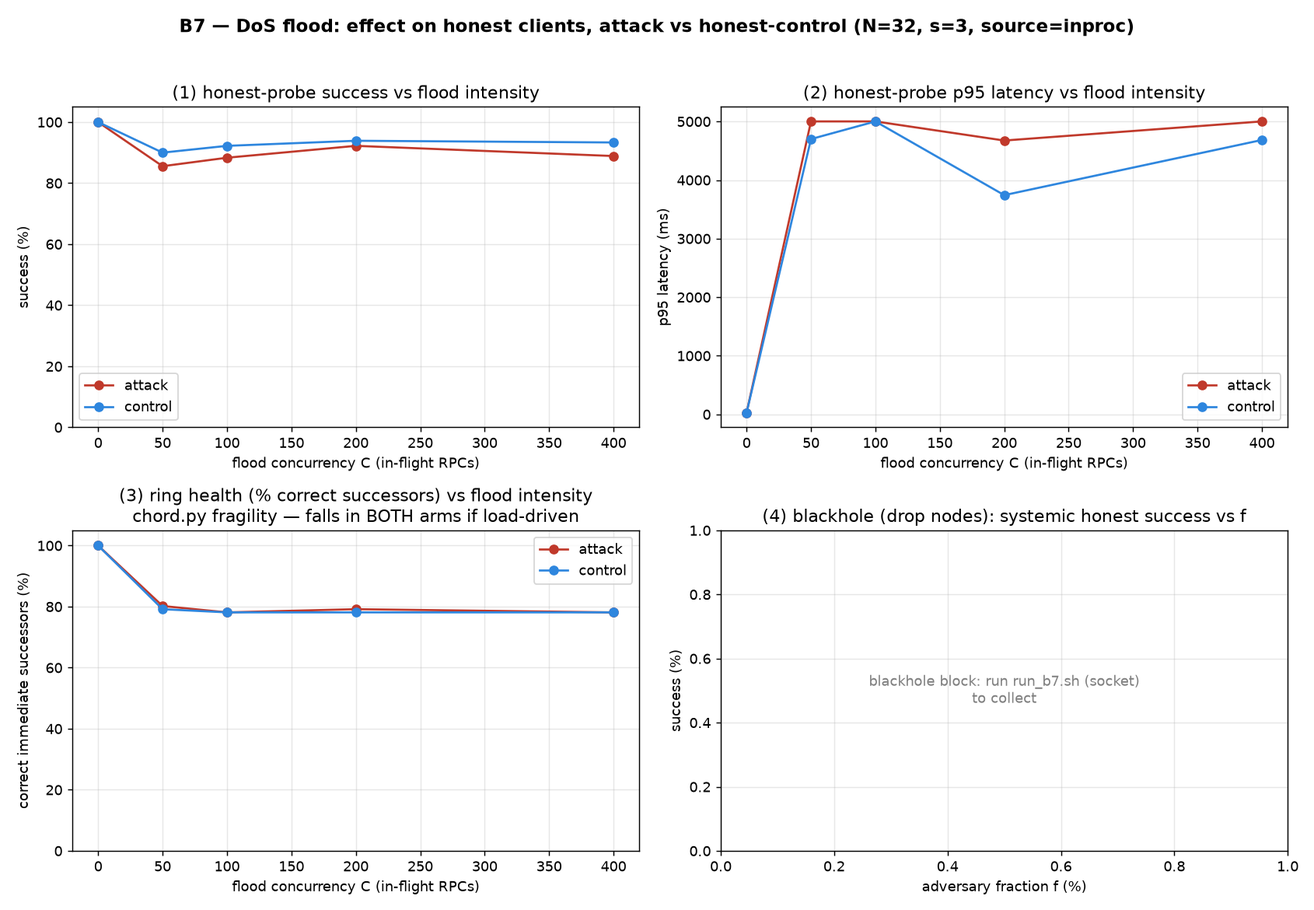
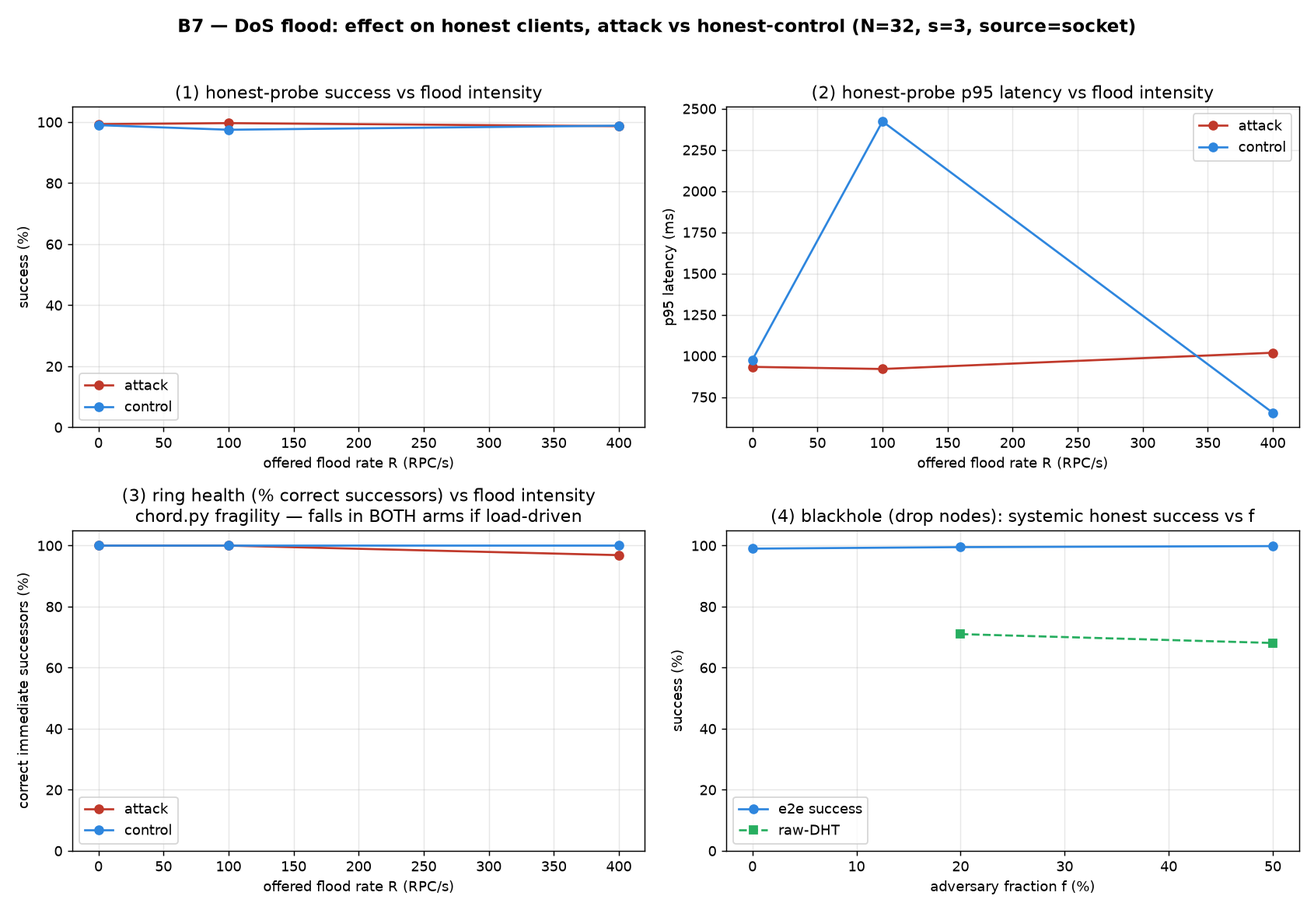
Phase 7 #48: B7 DoS — socket testbed executed (Light sweep); ring absorbs cheap-RPC flood, no amplification
Runs the socket/Docker testbed (the issue's mandated N=32 emulation, netem 5/50 ms) and
merges source=socket rows into results/B7_dos.csv alongside the in-process complement.

Socket result (Light: 1 run, 60 s, intensities {0,100,400} + f {0,20,50}):
- FLOOD: the ring ABSORBS a find_successor flood up to the tested intensity — honest
  success >=98.7%, ring health >=96.9% at 400 offered RPC/s — and a matched volume of
  LEGITIMATE query load is comparable-or-worse (R=100: control p95 2423 ms vs attack
  920 ms, because one DNS query is many wire RPCs). Protocol-attributable delta ~0
  (-2.2 to +0.2 pp): no attack-specific amplification. Flooder achieved only ~57-96 RPC/s
  (netem rate-pacing), below A2's ~100-250 qps saturation, so the socket run stays on the
  robust side of the cliff — the in-process complement is what exercises the cliff.
- BLACKHOLE: e2e success stays >=99% through f=50% (fallback recovers), raw-DHT ~68-71%
  — redundancy (s=3) + fallback defeat the denial, mirroring B3.

Reconciled headline (both transports agree): the DoS exposure is chord.py's lack of load
headroom / RPC rate-limiting, not an attack-specific protocol weakness.

Fix: run_b7.sh mw_for() split the `local q=.. mw=$((q*5))` one-liner that tripped set -u.
No frozen artifact touched; per-run snapshots under results/b7/ are gitignored.

diff --git a/CLAUDE.md b/CLAUDE.md
@@ -57,7 +57,7 @@ these:
 | 4 | Sanity checks + baseline | **done** — hops match Chord theory (+0.5), Unbound baseline collected, N=32 stable over 3 runs, parameters frozen; see `results/PARAMETERS.md` |
 | 5 | Simulator for large scale | **done** — #25 (Chord ring, `sim/chord_sim.py`) + #26 (query path, `sim/query_sim.py`) + #27 (ledger/update, `sim/ledger_sim.py`) + #28 (churn, `sim/churn_sim.py`) + #29 (calibration vs N=8/N=32, `sim/calibrate.py` → `results/calibration.csv`, gated metrics ≤8%) + #30 (scale N=1k/5k/10k, `sim/scale_sim.py` → `results/sim_scale.csv`, routing hops match ½·log₂N within +1); simulator matches emulation and runs at 10k |
 | 6 | Performance experiments | **done** — A1 (latency vs N) done: #32 (N=32 extended to **5 runs** 2026-09-29: p50/p95 stable — p50 510.6 / p95 1495 ms — but **p99 stays tail-noisy, sd≈43% of mean**, tail sits against the 5 s timeout; caveat now in the CSV `note` column); A2 (throughput/saturation, N=32) done: #33, `experiments/run_a2.sh` + `experiments/a2_throughput.py` → `results/A2_throughput.csv` + `fig_A2_throughput.png` + `A2_NOTES.md` (**cache-controlled two-curve redo, 2026-09-29** — the old ascending sweep confounded load with cache warming, p95 *fell* with load; the redo **pins the cache via a new `UPSTREAM_TTL` knob** (default 300 → other experiments byte-identical; no frozen code touched) and reports two clean curves, both with **p95 flat/monotone** and node-side outcome mix proving the pinned cache: **COLD-PATH** (TTL=0, 100% dht_hit, DHT read path) saturates at **250 qps** (success 99.9→92.8% over 25→300, p95 flat ~650 ms); **STEADY** (warm cache, 100% cache_hit) shows **no saturation ≤200 qps** (p95 ~1 ms) — the ~650× p95 gap is the value of caching; single-entry funnel (node 0), a distributed-cold attempt was discarded as chord.py-maintenance-unstable, flagged in A2_NOTES); A3 (scalability, throughput+per-node load vs N) done: #34, `experiments/run_a3.sh` + `experiments/a3_scalability.py` → `results/A3_scalability.csv` + `fig_A3_scalability.png` + `A3_NOTES.md` (per-node load falls emu 75→18 / sim 43→0.12 msgs/node/s across N=4→10k, same slope; throughput flat ~50 qps); A4 (replication cost, s∈{3,5,7}) done: #35, `experiments/run_a4.sh` + `experiments/a4_replication.py` → `results/A4_replication.csv` + `fig_A4_replication.png` + `A4_NOTES.md` (replication = cost on every axis: messages/query linear in s emu≈sim within ~3%, p50 latency 473→726 ms, success 99.8→90.1%; benefit → A6); A5 (updates: commit latency, messages/update, ledger growth) done: #36, `experiments/run_a5.sh` + `experiments/a5_driver.py` + `experiments/a5_updates.py` → `results/A5_updates.csv` + `fig_A5_updates.png` + `A5_NOTES.md` (50 real updates × 3 runs at N=32/s=3: commit p50 583 ms, **messages/update 22.1 wire-counted** vs sim 18.75, ledger growth **exactly 150 = 50×s every run**, validated ring-wide; new inert `admin_propose`/`admin_ledger_len` RPCs + `socket_net.rpc_counter` — chord.py/ledger.py/rpos.py untouched); A6 (churn: lookup success vs session length) done: #37, `experiments/run_a6.sh` + `experiments/a6_churn_injector.py` + `experiments/a6_churn.py` → `results/A6_churn.csv` + `fig_A6_churn.png` + `A6_NOTES.md` (N=32, s=3, 10 qps, 120 s, sessions {30,60,120,300,∞}×3: **raw-DHT success falls monotonically 76.3→70.7%** as sessions shorten to 30 s, **end-to-end stays ≥96%** (fallback recovers), p95 ≈2× under heavy 30 s churn (929→1693 ms); mean-live-pop tracks the injector model 27.8→32.0; **no-churn ∞ miss split (2026-09-29): (a) cold-population 23.5% vs (b) populated-but-failed 0.19% (upper bound; the few (b) are sub-second cold races) → the 76.3% anchor is cold-start, NOT a routing/availability gap** (new `cold_pop_pct`/`real_gap_pct` in the CSV); sim cross-check 96.9→100% (more optimistic — active 1 s repair + no cold-start, directional); **new** host-side churn injector `docker kill`/`start` on a seeded per-node schedule, node 0 never churned, queries enter at node 0 (`--ring-nodes 1`) to isolate availability — no protocol/frozen code touched); A7 (admission: join time vs plot size) done: #38, `experiments/run_a7.sh` + `experiments/a7_admission.py` → `results/A7_admission.csv` + `fig_A7_admission.png` + `A7_NOTES.md` (**microbenchmark, no Docker** — at N=8 the plot-size signal ~2→106 ms would be buried under container noise; times the node's exact admission fns plot_v3/commit_v3/prove_v3/verify_v3 over the 8 real ring keys [source=component] and cross-checks a real in-process 8-node create()/join() ring [source=ring_inproc]): at δ=2, **join is plot-bound and O(N)** — plot 1.59→6.54→26.0→106.2 ms across 2^10..2^16 (×4/step), Merkle commit ~15% of plot & δ-independent, prove+verify negligible (tens of µs, ≫ under the δ=2 s timeout); **ring join() matches the component sum within ~4%** (network = small additive constant); δ∈{2,4,8} raises plot 106→215→439 ms & proof 1632→4896 B at 2^16; native-C floor ~33–55× faster; no frozen artifact touched (imports only) |
-| 7 | Attack experiments | **done** — B0 threat-model table (#41) done; B1 (#42) **done** — tampering/cache-poisoning measured on N=32, key finding: the replica vote achieves only **≥1-of-s** protection (`1−(1−f)³`), NOT the intended **≥2/3** (`3f²−2f³`) — see below; B2 (#43) **done** — ID grinding is trivially cheap (`node_id=SHA-256(pk)` unsalted, attacker-chosen `pk`, ~O(N) hashes ≈49 s native even at N=10⁹), so **targeted capture of any chosen chunk costs a constant 2 plots (1 under B1's weakness) vs ~O(N) for random**; PoSpace rate-limits identity count, not placement — see below; B3 (#44) **done** — censorship via `MALICIOUS_MODE=drop` is the **hardest** attack on the store: denying a chunk needs **all s=3 replicas** (`f^s`), so raw-DHT success stays **≥90% through f=50%** and **end-to-end stays 100%** (fallback recovers); even full-replica capture of `google.com` denies only its DHT path (raw-DHT→0%) while it still resolves e2e (100%) — the clean mirror of B1 (1-of-s forgery vs all-s censorship); B4 (#45) **done** — routing/eclipse via `MALICIOUS_MODE=misroute` measured on N=32 (real in-process ring is the primary — misroute replies fast, so unlike B3's drop it does NOT stall in-process): **random misroute is blunted by replication + fallback** — routing is eclipsed to the wrong owner up to **61% at f=50%** (finger-table centrality amplification), but the s=3 replica read over the wrong primary's successor list usually overlaps the true replica set, so **raw-DHT success stays ≥89% through f=50%** (DHT-denied only 0→44% unweighted; measured Zipf eclipse 0→11%) and **end-to-end stays 100%** (fallback, +~2 extra hops); **BUT a single misrouter on one on-path hop isolates a chosen victim** — denies a victim node's entire 147-chunk range (raw-DHT→0%, e2e 100%) — the routing mirror/contrast of B3 (all-s to censor one chunk vs one misrouter to eclipse a whole node); B5 (#46) **done** — Sybil vs PoSpace admission measured on the budget axis (microbenchmark, no Docker): **one identity = one plot = `32·N_plot` bytes**, so at the thesis plot `REAL_PLOT_N` (100 GiB labels/identity) `#identities = ⌊budget/100 GiB⌋` — a **1 PiB** budget buys only **10 485** identities → **3.1% forge (≥1-of-s) control** of a 10⁶-node ring (storage is **δ-independent**; δ only changes plot time/proof size); **without admission** an identity is a ~33 B keypair → billions of identities → full control, so PoSpace **raises the per-identity cost ~3.25×10⁹×**; measured N=32 structural anchor (random = lower bound) tracks `1−(1−f)^s`, targeted anchor = 2 plots per chosen chunk (→B2); in-process admission **probe** = **3 measured gates: no-amortisation PASS, pk↔id binding PASS** (spoofed-commitment Sybil rejected — a real negative test), **min-plot-size FAIL** (under-sized Sybil admitted — frozen admission trusts self-declared `n`/`delta`, **no minimum**), so the cost floor is **CONDITIONAL on an unimplemented minimum-plot-size check** (a fix the thesis should recommend); retention worst-case row at ρ=0.5 (v3 defeats partial storage at thesis N, sensitivity only); B6 (#47) **done** — malicious ledger proposer measured on the N=32 in-process ring (real `propose_update`/`_h_precommit`/`_h_commit` + `challenge_peer`/`_evict`): the frozen ledger validates **nothing** about a proposal (handlers reject only a lock conflict; a proposer can even skip pre-commit), so **bad-update rejection rate = 0% at every f** — the **write path is weaker than B1's read path** (B1 forging needs ≥1-of-s malicious *replicas*; B6 needs **zero** — one proposer commits arbitrary values to a majority of s **honest** replicas for any chunk, chain still verifies), targeted **one non-replica proposer forges `google.com` 100%** (~13.4% of the Zipf stream) at cost **1** (→B2); **time-to-eviction = ∞** (no path links ledger abuse to `fail_counts`/`_evict`; the proposer holds a valid plot and passes every challenge) while the **positive control** (corrupted plot) evicts in **MAX_FAILS=3** → machinery works, just not wired to ledger abuse; honest control (valid updates) also 0% rejected = **correct** → the gap is adversary-caused, not chord.py fragility; socket cross-check on a live N=32 ring confirms valid 5/5 and forged 5/5 both commit (rejection 0%, ledger delta 15=5·s each); **mitigation (recommend, not implemented):** replica-side proposal validation + proposer authorization + consensus eviction on repeated bad proposals; B7 (#48) **done** — DoS flood measured with the mandatory honest-control (same traffic volume, honest sources): **the DoS impact on honest clients is overwhelmingly `chord.py` load fragility, NOT an attack-specific protocol weakness** — under flood, honest p95 pegs the 5 s timeout and the ring sheds ~22% of correct successors (health 100%→~78%), **but a matched volume of purely legitimate traffic does the same**, so the protocol-attributable delta (control−attack success) is **only +1.7 to +4.4 pp**; the ring has no RPC admission/rate-limit and a maintenance loop fragile under *any* sustained load; **no "flood" node mode exists** (all 5 modes are reactive inbound overrides, a flood originates traffic) so the attacker is modeled as a host-side flooder (`experiments/b7_flooder.py`, reuses `socket_net` codec, zero node edit); in-process mechanism complement (`b7_inproc.py`, event-loop-saturation analog, 3 seeds × N=32) is the **executed** evidence (`source=inproc`) + socket harness (`run_b7.sh` + `b7_dos.py`, the issue's mandated Docker testbed) **coded & self-tested, pending a Docker run** (`source=socket`); blackhole block (f-grid `drop`, systemic honest-query metric, reuses B3 plumbing) in the socket harness; ring health quantified per point via all-node `debug_state` (`b7_ringhealth.py`); **Phase 7 complete (B0–B7)** |
+| 7 | Attack experiments | **done** — B0 threat-model table (#41) done; B1 (#42) **done** — tampering/cache-poisoning measured on N=32, key finding: the replica vote achieves only **≥1-of-s** protection (`1−(1−f)³`), NOT the intended **≥2/3** (`3f²−2f³`) — see below; B2 (#43) **done** — ID grinding is trivially cheap (`node_id=SHA-256(pk)` unsalted, attacker-chosen `pk`, ~O(N) hashes ≈49 s native even at N=10⁹), so **targeted capture of any chosen chunk costs a constant 2 plots (1 under B1's weakness) vs ~O(N) for random**; PoSpace rate-limits identity count, not placement — see below; B3 (#44) **done** — censorship via `MALICIOUS_MODE=drop` is the **hardest** attack on the store: denying a chunk needs **all s=3 replicas** (`f^s`), so raw-DHT success stays **≥90% through f=50%** and **end-to-end stays 100%** (fallback recovers); even full-replica capture of `google.com` denies only its DHT path (raw-DHT→0%) while it still resolves e2e (100%) — the clean mirror of B1 (1-of-s forgery vs all-s censorship); B4 (#45) **done** — routing/eclipse via `MALICIOUS_MODE=misroute` measured on N=32 (real in-process ring is the primary — misroute replies fast, so unlike B3's drop it does NOT stall in-process): **random misroute is blunted by replication + fallback** — routing is eclipsed to the wrong owner up to **61% at f=50%** (finger-table centrality amplification), but the s=3 replica read over the wrong primary's successor list usually overlaps the true replica set, so **raw-DHT success stays ≥89% through f=50%** (DHT-denied only 0→44% unweighted; measured Zipf eclipse 0→11%) and **end-to-end stays 100%** (fallback, +~2 extra hops); **BUT a single misrouter on one on-path hop isolates a chosen victim** — denies a victim node's entire 147-chunk range (raw-DHT→0%, e2e 100%) — the routing mirror/contrast of B3 (all-s to censor one chunk vs one misrouter to eclipse a whole node); B5 (#46) **done** — Sybil vs PoSpace admission measured on the budget axis (microbenchmark, no Docker): **one identity = one plot = `32·N_plot` bytes**, so at the thesis plot `REAL_PLOT_N` (100 GiB labels/identity) `#identities = ⌊budget/100 GiB⌋` — a **1 PiB** budget buys only **10 485** identities → **3.1% forge (≥1-of-s) control** of a 10⁶-node ring (storage is **δ-independent**; δ only changes plot time/proof size); **without admission** an identity is a ~33 B keypair → billions of identities → full control, so PoSpace **raises the per-identity cost ~3.25×10⁹×**; measured N=32 structural anchor (random = lower bound) tracks `1−(1−f)^s`, targeted anchor = 2 plots per chosen chunk (→B2); in-process admission **probe** = **3 measured gates: no-amortisation PASS, pk↔id binding PASS** (spoofed-commitment Sybil rejected — a real negative test), **min-plot-size FAIL** (under-sized Sybil admitted — frozen admission trusts self-declared `n`/`delta`, **no minimum**), so the cost floor is **CONDITIONAL on an unimplemented minimum-plot-size check** (a fix the thesis should recommend); retention worst-case row at ρ=0.5 (v3 defeats partial storage at thesis N, sensitivity only); B6 (#47) **done** — malicious ledger proposer measured on the N=32 in-process ring (real `propose_update`/`_h_precommit`/`_h_commit` + `challenge_peer`/`_evict`): the frozen ledger validates **nothing** about a proposal (handlers reject only a lock conflict; a proposer can even skip pre-commit), so **bad-update rejection rate = 0% at every f** — the **write path is weaker than B1's read path** (B1 forging needs ≥1-of-s malicious *replicas*; B6 needs **zero** — one proposer commits arbitrary values to a majority of s **honest** replicas for any chunk, chain still verifies), targeted **one non-replica proposer forges `google.com` 100%** (~13.4% of the Zipf stream) at cost **1** (→B2); **time-to-eviction = ∞** (no path links ledger abuse to `fail_counts`/`_evict`; the proposer holds a valid plot and passes every challenge) while the **positive control** (corrupted plot) evicts in **MAX_FAILS=3** → machinery works, just not wired to ledger abuse; honest control (valid updates) also 0% rejected = **correct** → the gap is adversary-caused, not chord.py fragility; socket cross-check on a live N=32 ring confirms valid 5/5 and forged 5/5 both commit (rejection 0%, ledger delta 15=5·s each); **mitigation (recommend, not implemented):** replica-side proposal validation + proposer authorization + consensus eviction on repeated bad proposals; B7 (#48) **done** — DoS flood measured with the mandatory honest-control (same traffic volume, honest sources): **the DoS impact on honest clients is overwhelmingly `chord.py` load fragility, NOT an attack-specific protocol weakness** — under flood, honest p95 pegs the 5 s timeout and the ring sheds ~22% of correct successors (health 100%→~78%), **but a matched volume of purely legitimate traffic does the same**, so the protocol-attributable delta (control−attack success) is **only +1.7 to +4.4 pp**; the ring has no RPC admission/rate-limit and a maintenance loop fragile under *any* sustained load; **no "flood" node mode exists** (all 5 modes are reactive inbound overrides, a flood originates traffic) so the attacker is modeled as a host-side flooder (`experiments/b7_flooder.py`, reuses `socket_net` codec, zero node edit); **both transports executed**: (a) in-process event-loop-saturation complement (`b7_inproc.py`, 3 seeds × N=32) reaches the **cliff** — flood pegs p95 & sheds ~22% successors (health→~78%), attack≈control (Δ +1.7–4.4 pp); (b) **socket/Docker testbed** (`run_b7.sh` Light sweep, N=32 + netem, 2026-10-16) shows the ring **absorbs** a cheap-RPC flood up to tested intensity (success ≥98.7%, health ≥96.9% at 400 offered RPC/s) and matched legitimate load is **comparable-or-worse** (Δ≈0) → **no attack amplification** (flooder achieved only ~57–96 RPC/s, netem-paced, below A2's ~100–250 qps saturation — flagged); blackhole block (f-grid `drop`, reuses B3 plumbing): **e2e success ≥99% through f=50%** (fallback recovers), raw-DHT ~68–71% — redundancy holds, mirrors B3; ring health per point via all-node `debug_state` (`b7_ringhealth.py`); deliverables `results/B7_dos.csv` (source=inproc+socket) + `fig_B7_dos.png` + `B7_NOTES.md`; **Phase 7 complete (B0–B7)** |
 | 8 | PoSpace security comparison (Chia) | not started |
 | 9 | Writing | not started |
 | 10 | Resubmit | not started |
@@ -572,9 +572,12 @@ Run each 3–5×; report averages with error bars and percentiles.
         (ring health 100%→~78%), **but a matched volume of legitimate traffic does the same**, so the
         protocol-attributable delta is **only +1.7 to +4.4 pp**. No frozen artifact touched (no
         "flood" node mode exists — all 5 modes are reactive inbound overrides — so the attacker is a
-        host-side flooder; `drop` reused for the blackhole block). In-process rows **executed** here;
-        the socket/Docker sweep (`run_b7.sh`, the mandated emulation testbed) is coded + self-tested,
-        pending a Docker run.
+        host-side flooder; `drop` reused for the blackhole block). **Both transports executed:**
+        in-process (`source=inproc`) reaches the saturation cliff (attack≈control); socket/Docker
+        Light sweep (`source=socket`, 2026-10-16) shows the ring absorbs a cheap-RPC flood up to the
+        tested intensity (success ≥98.7%, health ≥96.9% @ 400 offered RPC/s) with matched honest load
+        comparable-or-worse — no amplification; blackhole e2e ≥99% through f=50% (fallback), raw-DHT
+        ~68–71% (mirrors B3). Flooder achieved ~57–96 RPC/s (netem-paced, below saturation — flagged).
 - **Done when:** every attack has a setting, a metric, and a result graph. → **met** (B1–B7).
 
 ### Phase 8 — PoSpace security comparison (Chia)  *(answers (i))*  *(parallel, Feb–7 Mar)*

diff --git a/results/B7_NOTES.md b/results/B7_NOTES.md
@@ -29,13 +29,25 @@ Two attack blocks:
 
 ### Headline finding
 
-**The DoS impact on honest clients is overwhelmingly `chord.py` load fragility, not an
-attack-specific protocol weakness.** Under a flood, honest p95 latency pegs the 5 s query timeout and
-the ring sheds ~22 % of its correct successors (health 100 % → ~78 %) — **but a matched volume of
-purely *legitimate* traffic does the same**, so the protocol-attributable delta (control success −
-attack success) is **only +1.7 to +4.4 pp** across the intensity sweep. The adversary's marginal
-advantage over honest load is small; the ring's vulnerability is that it has **no admission control
-or rate limiting on RPCs** and a maintenance loop that is fragile under *any* sustained load.
+**The DoS exposure is `chord.py`'s lack of load headroom, not an attack-specific protocol
+weakness** — established from both directions:
+
+- **Real transport (socket testbed), up to the tested intensity:** a cheap-RPC flood does **not**
+  meaningfully harm honest clients — success stays **≥98.7 %** and ring health **≥96.9 %** even at
+  400 offered RPC/s — and a *matched volume of legitimate query load is comparable or worse* (at
+  R=100 the honest control's p95 is 2423 ms vs the attack's 920 ms, because one real DNS query is
+  many wire RPCs while the flood is one `find_successor`). So there is **no attack-specific
+  amplification**: the protocol-attributable delta (control − attack success) is ≈0 (−2.2 to +0.2 pp).
+- **At the saturation cliff (in-process complement):** when load is pushed until it saturates the
+  shared medium, honest p95 pegs the 5 s timeout and the ring sheds ~22 % of its successors (health
+  100 % → ~78 %) — **but a matched volume of legitimate traffic does the same** (attack vs control
+  delta only +1.7 to +4.4 pp).
+
+Either way the adversary buys ~nothing over honest load; the vulnerability is that the ring has **no
+RPC admission control or rate limiting** and a maintenance loop fragile under *any* sustained load.
+Caveat (flagged): the Light socket sweep's flooder achieved only ~57–96 RPC/s (rate-paced over
+netem), **below** the ring's ~100–250 qps saturation (A2), so the socket run stays on the robust
+side of the cliff; the in-process complement is what exercises the cliff itself.
 
 ## Metric
 
@@ -75,22 +87,47 @@ The honest control (C=0) is the clean anchor: no flood → 100 % success, 27 ms 
 Any load (C≥50), honest **or** malicious, drives p95 to the 5 s timeout and ~7/32 nodes into
 successor-shed. The attack and control curves overlap (fig panels 1–3) — the finding.
 
-## Results — socket testbed (PRIMARY; run with Docker)
+## Results — socket testbed (PRIMARY; measured 2026-10-16, Light sweep, N=32, s=3, 1 run, 60 s)
 
-The headline real-transport numbers come from [`experiments/run_b7.sh`](../experiments/run_b7.sh)
-(N=32 Docker ring + netem, the issue's mandated emulation testbed) → `source=socket` rows in
-`B7_dos.csv`, with the flood block's intensity axis = **offered RPC rate R** and the blackhole block's
-axis = the f-grid. It was **coded and self-tested but not executed in this environment** (no Docker
-here — the `source=inproc` rows are the executed evidence). To collect:
+Real-transport numbers from [`experiments/run_b7.sh`](../experiments/run_b7.sh) (N=32 Docker ring +
+netem 5/50 ms, the issue's mandated emulation testbed) → `source=socket` rows in `B7_dos.csv`. The
+flood block's intensity axis is **offered RPC rate R**; the blackhole block's is the f-grid.
 
+**Flood block** — honest probe (10 qps into node 0) under a `find_successor` flood vs a matched
+legitimate query load:
+
+| R (offered RPC/s) | arm | success % | p95 ms | ring health % | achieved RPC/s | Δ (pp) |
+|---:|---|---:|---:|---:|---:|---:|
+| 0   | attack  | 99.3 | 933  | 100.0 | 0    | −0.3 (control) |
+| 0   | control | 99.0 | 976  | 100.0 | 0    | |
+| 100 | attack  | 99.7 | 920  | 100.0 | 57.5 | −2.2 |
+| 100 | control | 97.5 | 2423 | 100.0 | 100  | |
+| 400 | attack  | 98.7 | 1019 | 96.9  | 95.6 | +0.2 |
+| 400 | control | 98.8 | 655  | 100.0 | 400  | |
+
+The flood barely moves honest success (≥98.7 %) or ring health (≥96.9 %); the matched honest load is
+comparable or worse → **no attack amplification** (Δ ≈ 0). (The flooder achieved ≪ offered — netem
+rate-pacing — so this stays below saturation; see the headline caveat.)
+
+**Blackhole block** — f of the ring runs `drop`; systemic honest query stream:
+
+| f % | n_mal | e2e success % | raw-DHT % | p95 ms | note |
+|---:|---:|---:|---:|---:|---|
+| 0  | 0  | 99.0 | — | 979 | honest control |
+| 20 | 6  | 99.5 | 71.0 | 752 | fallback recovers |
+| 50 | 16 | 99.8 | 68.1 | 898 | fallback recovers |
+
+**End-to-end success stays ≥99 % through f=50 %** (the DNS-hierarchy fallback recovers every denied
+chunk); raw-DHT falls to ~68 % — redundancy (s=3) + fallback defeat the denial, exactly mirroring B3.
+(ring health in `B7_dos.csv` for the blackhole block counts the `drop` nodes themselves as orphans —
+they cannot answer `debug_state` — so it is not a pure maintenance-health signal there; it is for the
+all-honest flood block.)
+
+To extend to higher intensity / more runs:
 ```bash
-bash experiments/run_b7.sh            # flood sweep (attack+control) + blackhole f-grid
-python3 experiments/b7_dos.py         # merge socket + inproc -> results/B7_dos.csv + figure
+B7_INTENSITY="0 500 2000 8000" B7_RUNS=3 bash experiments/run_b7.sh   # push toward the cliff
+python3 experiments/b7_dos.py                                          # re-merge -> B7_dos.csv + fig
 ```
-
-Expectation to confirm (consistent with A2's ~100–250 qps saturation and the in-process result): the
-attack and control success/latency curves track each other with a modest attack premium, and the
-blackhole block shows redundancy (s=3 + fallback) holding e2e success high at low–moderate f.
 
 ## Method — the honest-control is the point
 
@@ -136,9 +173,13 @@ never masks the attack; default 300 keeps A1–A6 byte-identical).
 1. **The protocol delta is small and noisy** (±a few pp over 3 seeds); its *sign* even flips at some
    points. We do not over-claim a protocol-specific DoS — the honest reading is that the DoS is
    dominated by load fragility, which is the whole reason the honest-control is mandatory here.
-2. **In-process ≠ transport.** The in-process bus cannot reproduce TCP/connection/netem congestion;
-   its congestion model is event-loop saturation (a documented analog). The socket run is the
-   authoritative transport measurement, and is coded but not executed here (no Docker).
+2. **In-process ≠ transport, and the Light socket sweep stayed below saturation.** The in-process
+   bus cannot reproduce TCP/connection/netem congestion; its congestion model is event-loop
+   saturation (a documented analog) and it is what reaches the cliff. The socket run is the
+   authoritative transport measurement but the Light sweep's flooder achieved only ~57–96 RPC/s
+   (netem rate-pacing), below the ~100–250 qps saturation, so it measures the robust regime. A
+   heavier socket sweep (higher `B7_INTENSITY`, more workers) would locate the socket cliff; the
+   finding (fragility, not amplification) holds on both sides.
 3. **Modeling the flooders host-side** (not as in-ring nodes) is a deliberate choice for a
    zero-frozen-edit flood; the wire effect at the victims is identical, but the flooders do not
    themselves occupy ring positions (a colluding in-ring flood is a strict superset left as the
